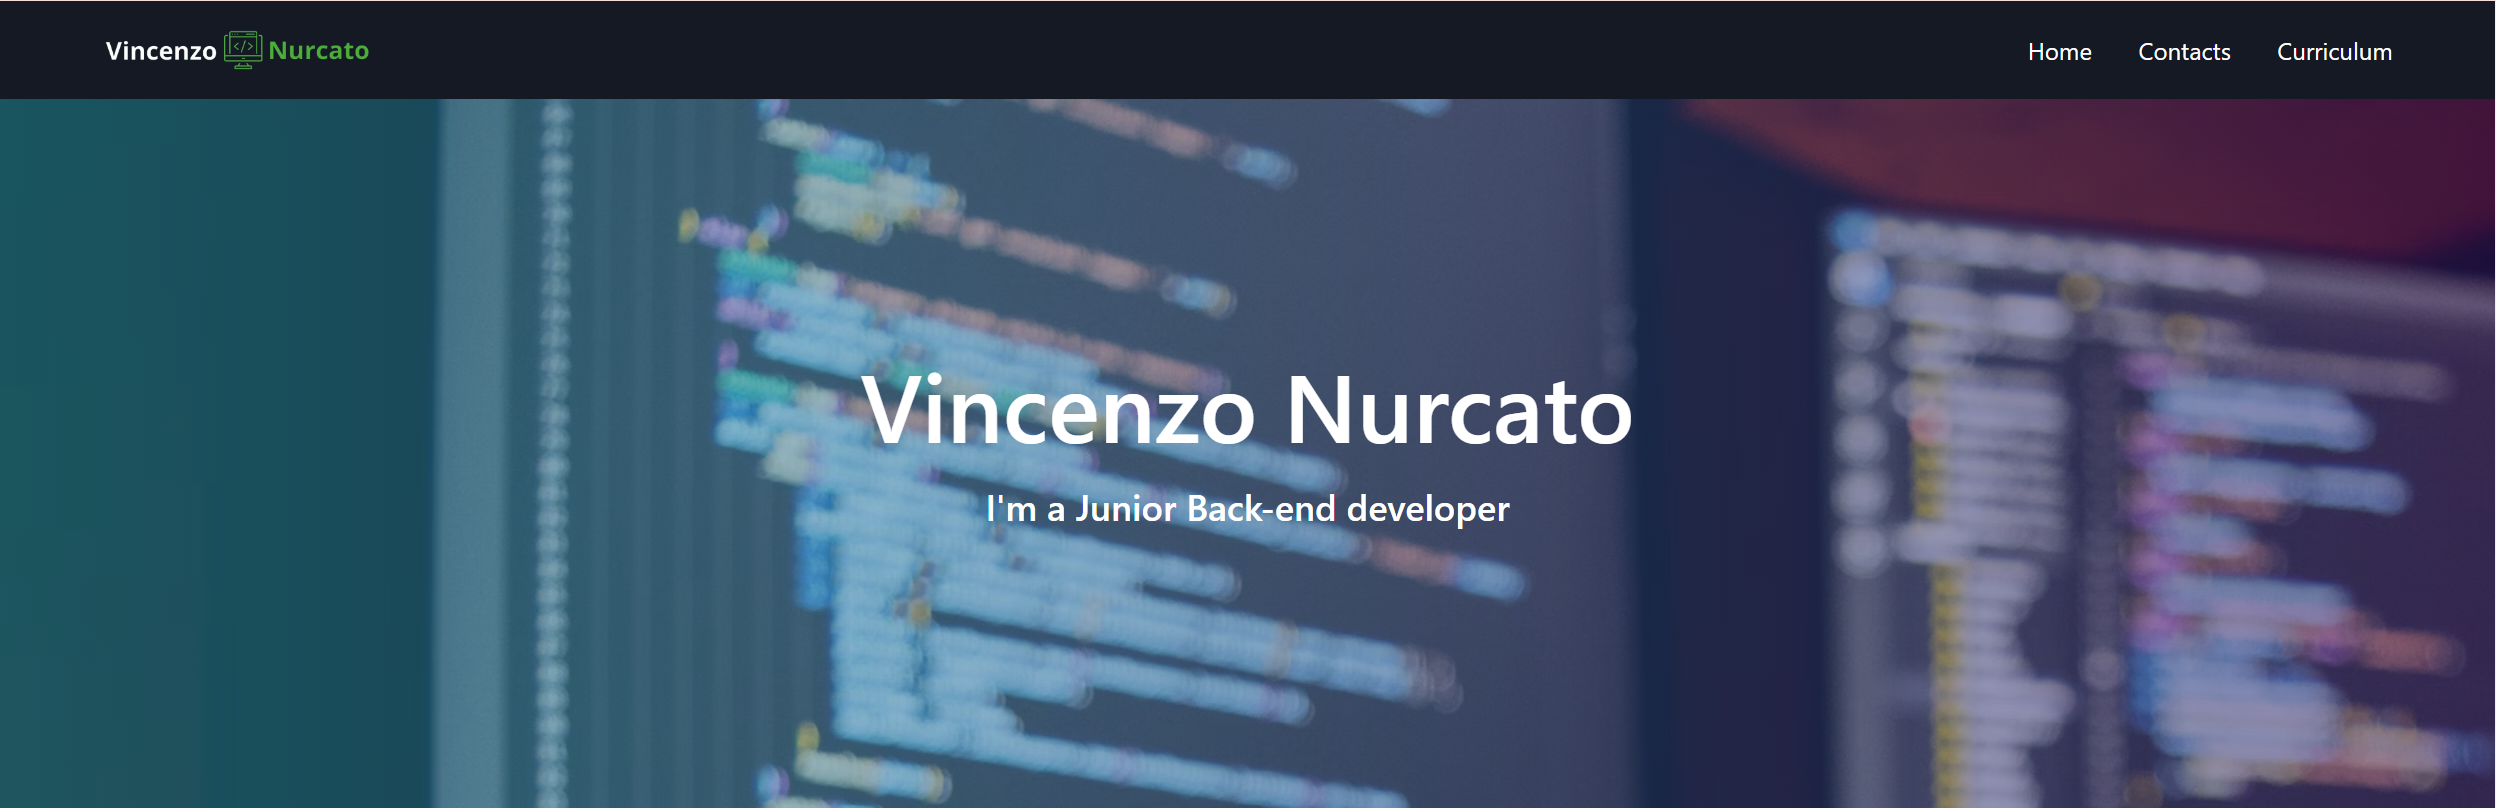
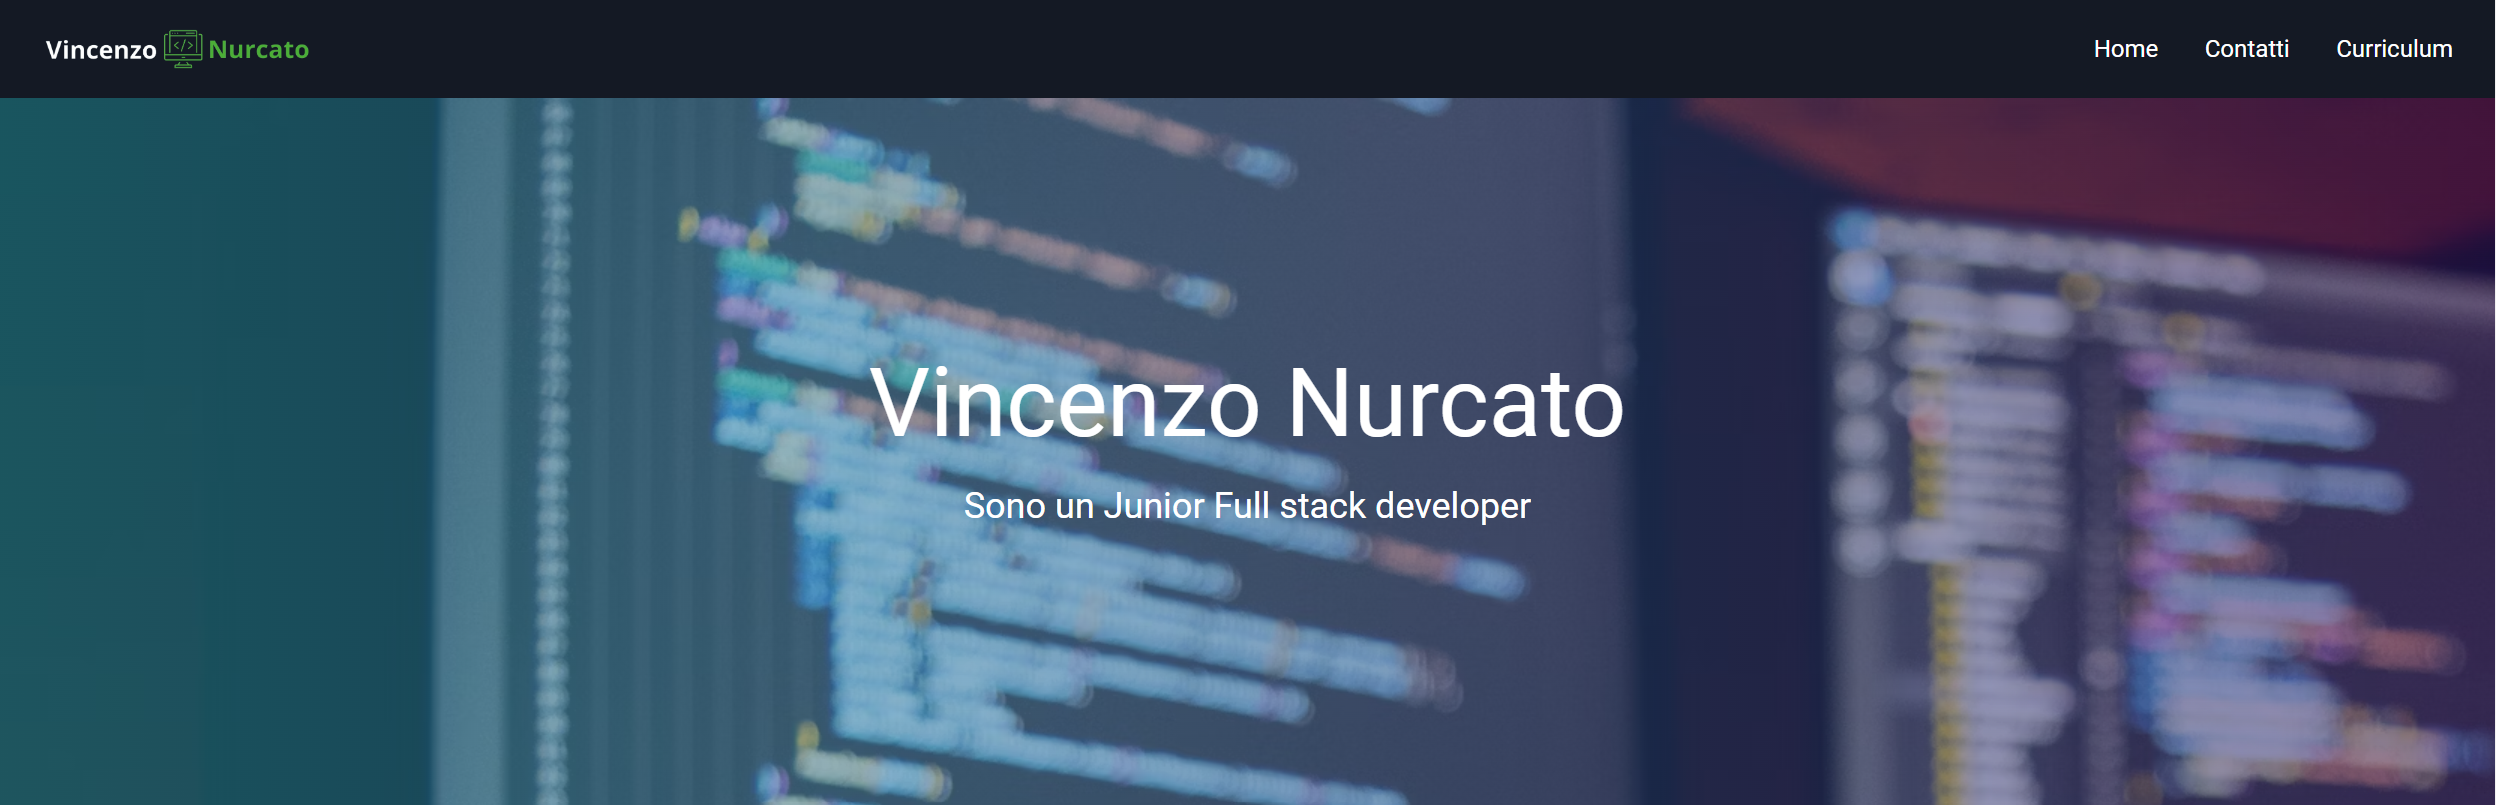
aggiornata card img e sezione informazioni

diff --git a/index.html b/index.html
@@ -114,7 +114,7 @@
                 concetti che trovo molto utili anche nel mio percorso di studi.
               </p>
               <p>
-                Un’altra mia grande passione è quella per i manga, gli anime, la
+                Un’altra mia grande passione è quella per i viaggi, gli anime, la
                 musica, le serie TV, e i film, che mi permettono di rilassarmi e
                 di viaggiare con la mente, inoltre, adoro passare il mio tempo
                 libero in palestra.
